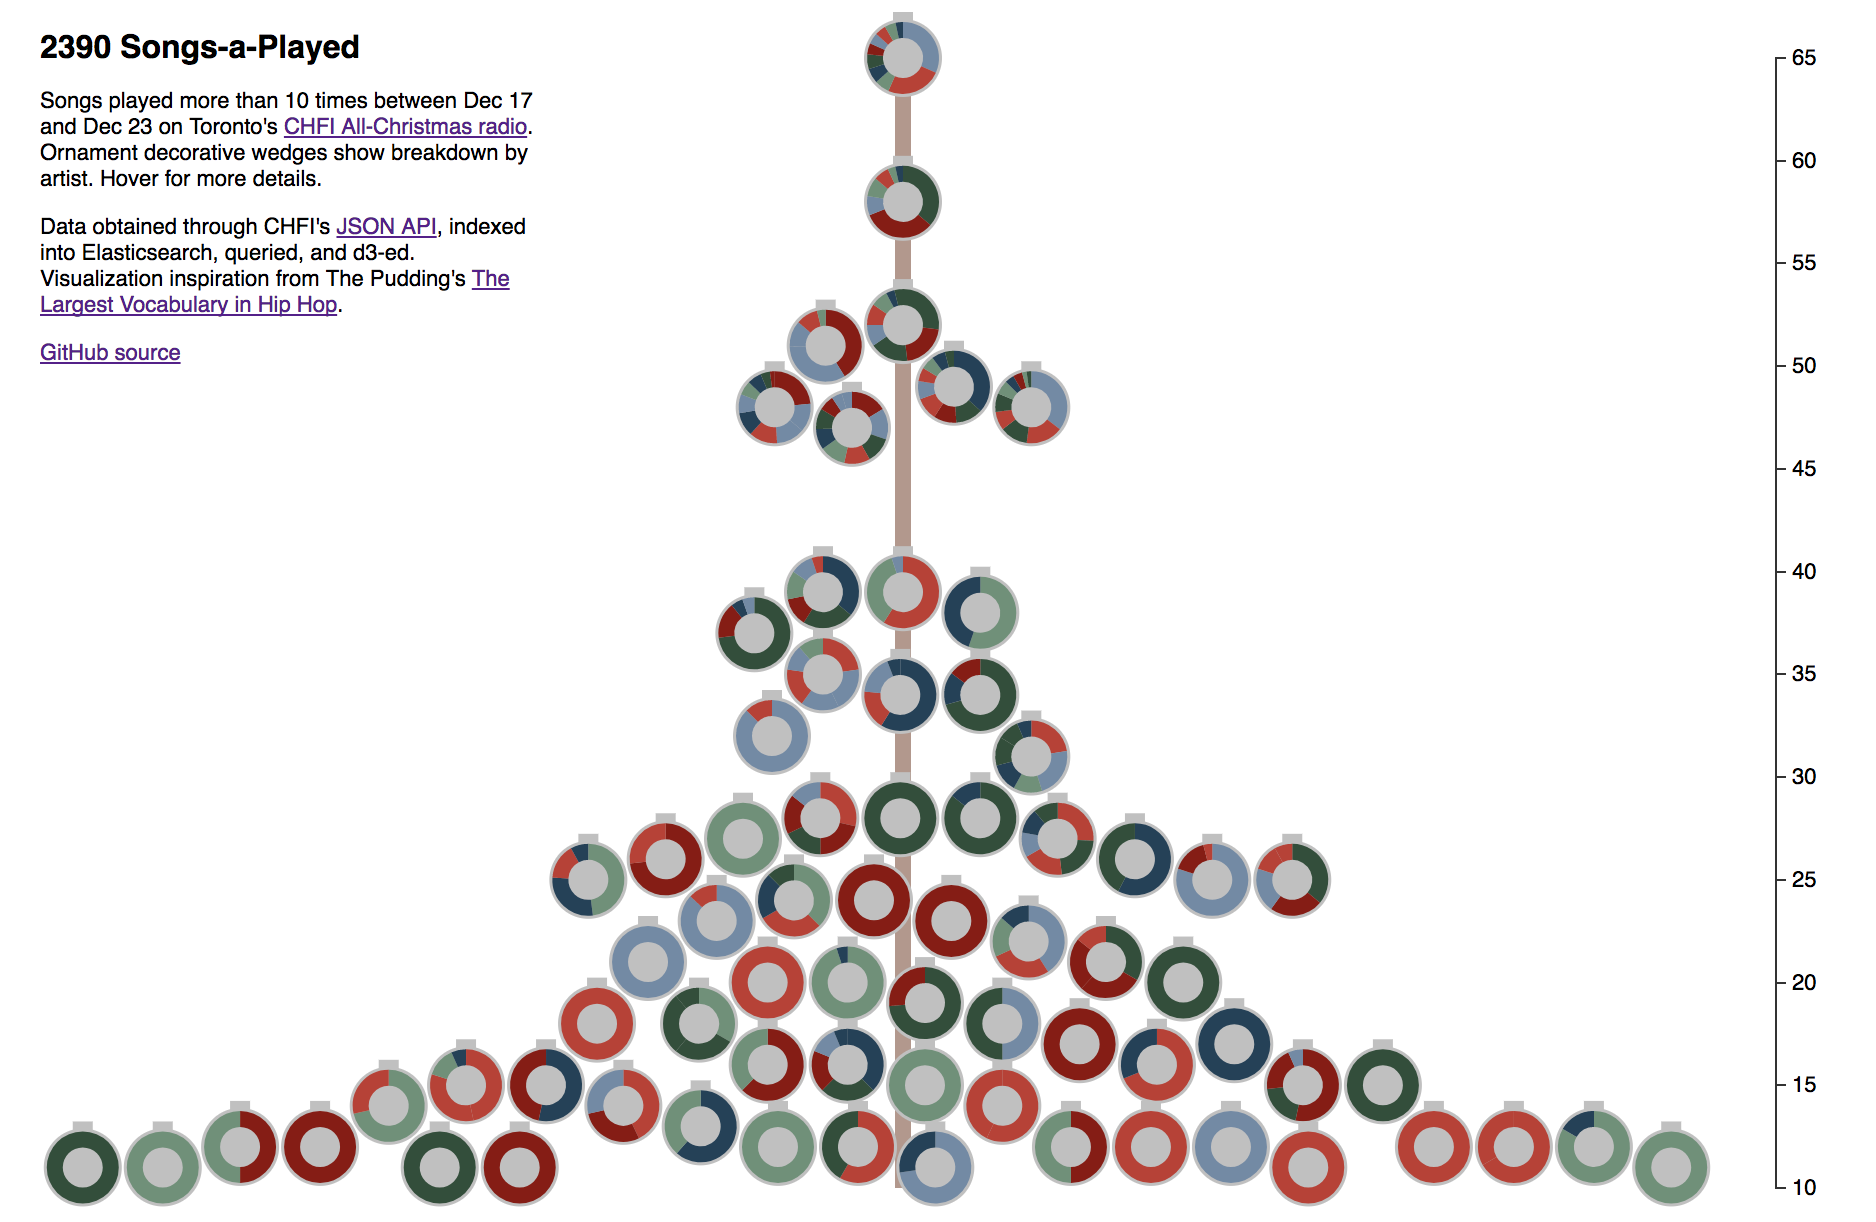
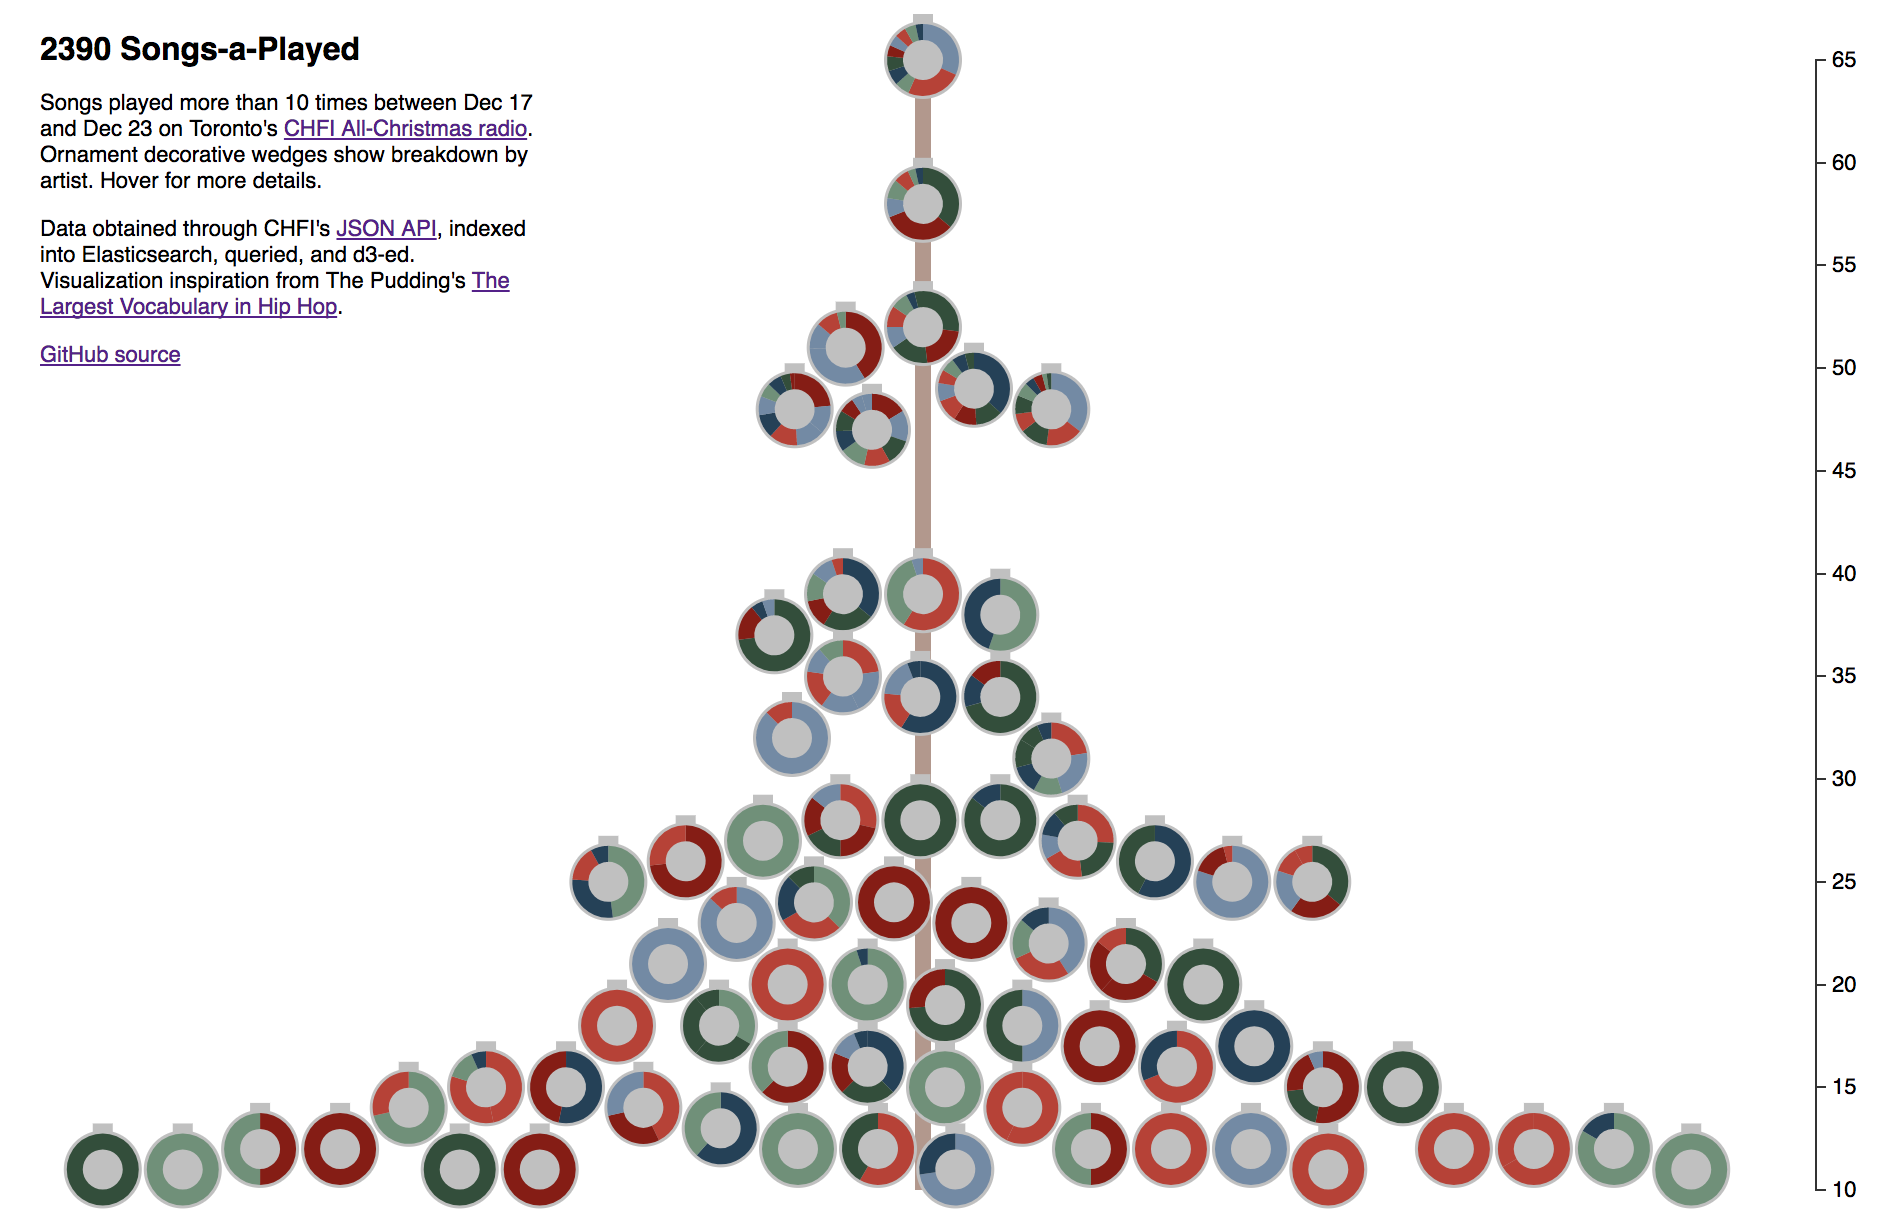
Tweak size

diff --git a/index.html b/index.html
@@ -21,7 +21,7 @@ h4 {
 }
 #container {
   position: relative;
-  width: 880px;
+  width: 920px;
 }
 .arc {
   stroke: none;
@@ -2008,7 +2008,7 @@ function calculateOffset(d){
 };
 
 var margin = {top: 25, right: 35, bottom: 30, left: 22},
-    width = 900 - margin.left - margin.right,
+    width = 920 - margin.left - margin.right,
     height = 620 - margin.top - margin.bottom,
     RADIUS = 18,
     padding = 4;
